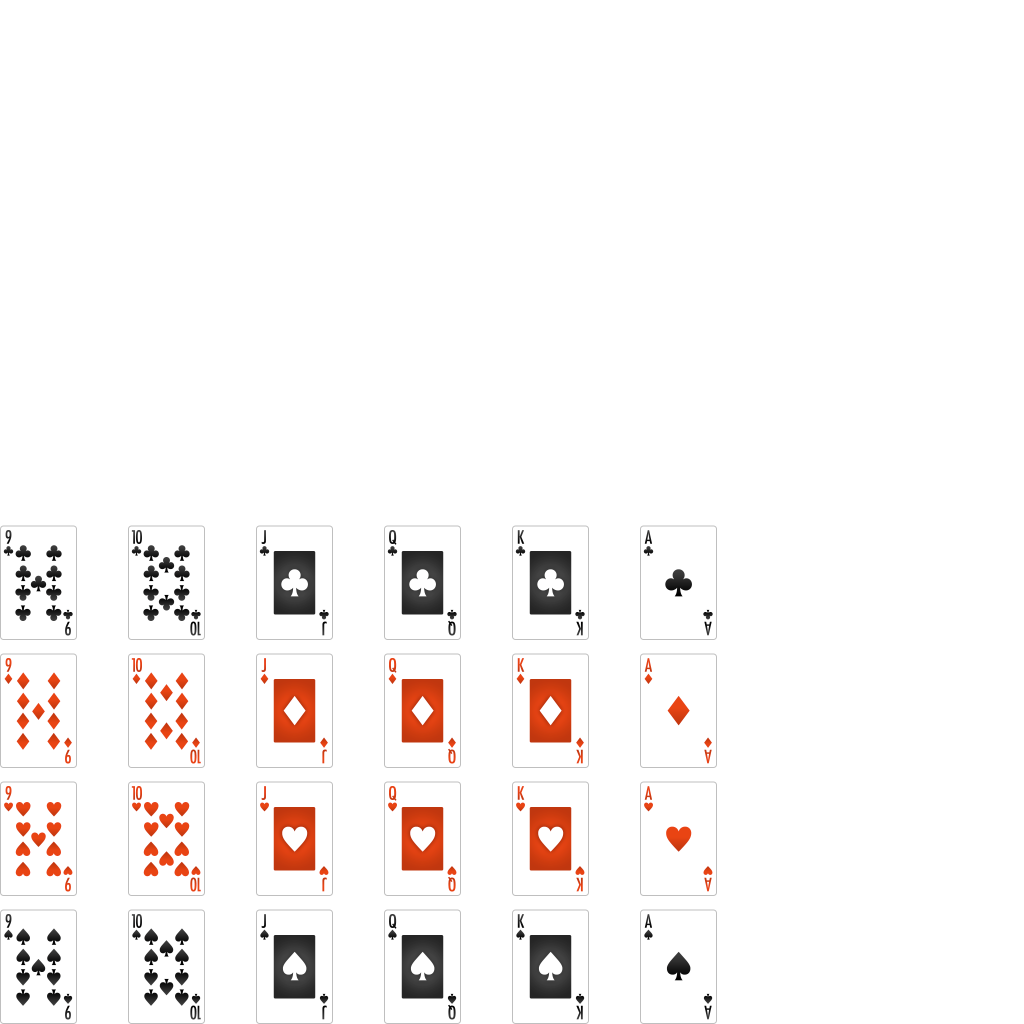
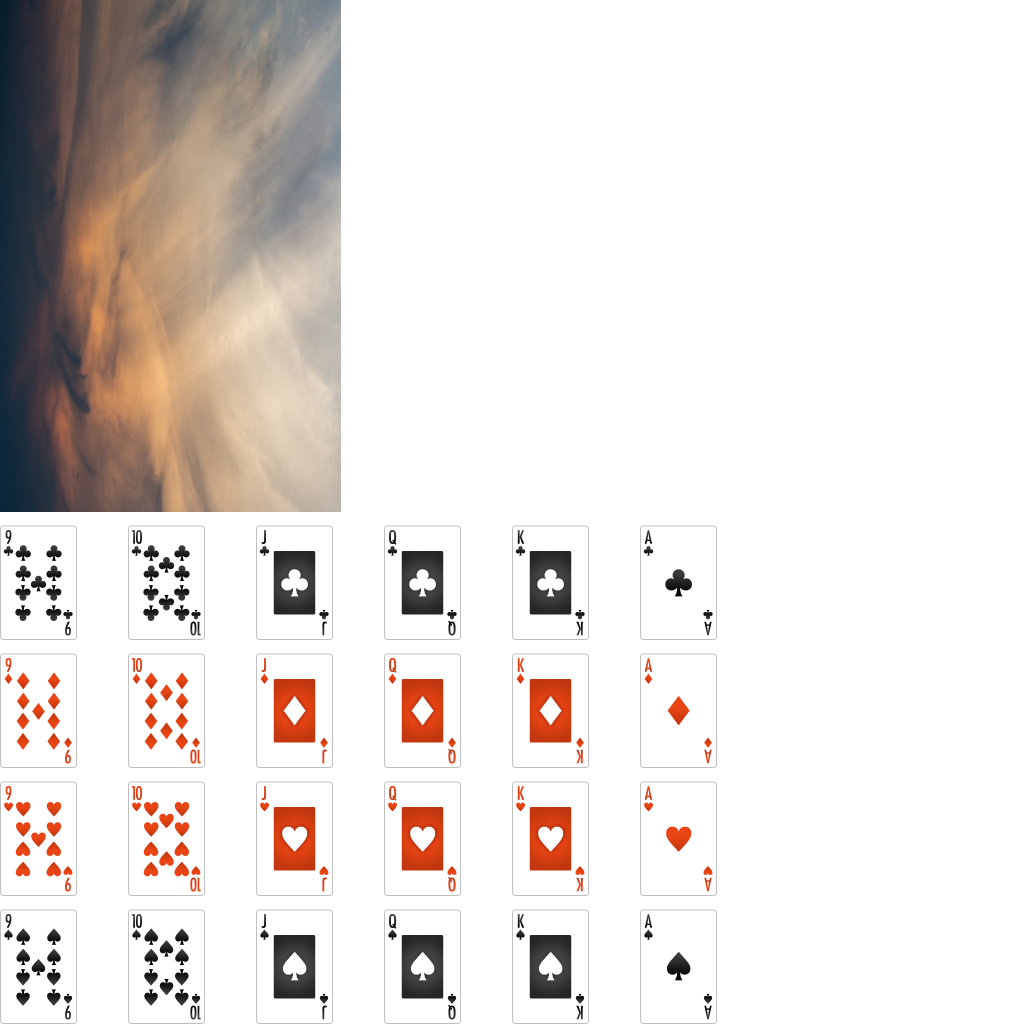
updated card back images

Changed region(s): [[0.0, 0.0, 0.3438, 0.5]]

diff --git a/frontend/shoot-client/src/components/Game/Interface3D/Card3D.ts b/frontend/shoot-client/src/components/Game/Interface3D/Card3D.ts
@@ -48,7 +48,10 @@ class Card3D {
 
         var faceUV = new Array(6);
 
-        // Use rank-2 below because we're not playing with 7s and 8s.
+        // Map the card backs.
+        faceUV[4] = new Vector4(0 / 1024, 512 / 1024, 341 / 1024, 1024 / 1024);
+
+        // Map the card fronts.  Use rank-2 below because we're not playing with 7s and 8s.
         faceUV[5] = new Vector4((rank-2) * 128 / 1024, suit * 128 / 1024, (rank-2) * 128 / 1024 + 77 / 1024, suit * 128 / 1024 + 115 / 1024);
     
         this.mesh = MeshBuilder.CreateBox("card", {
